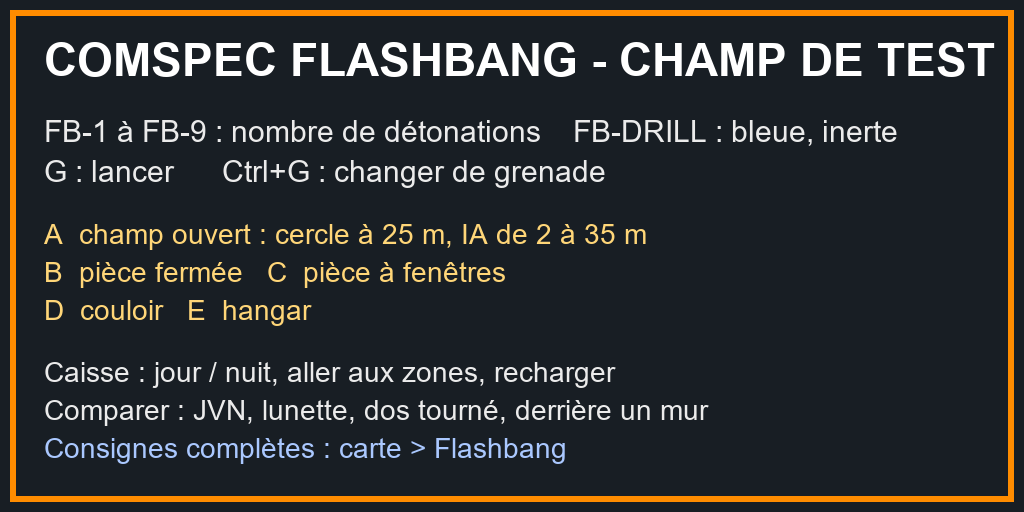
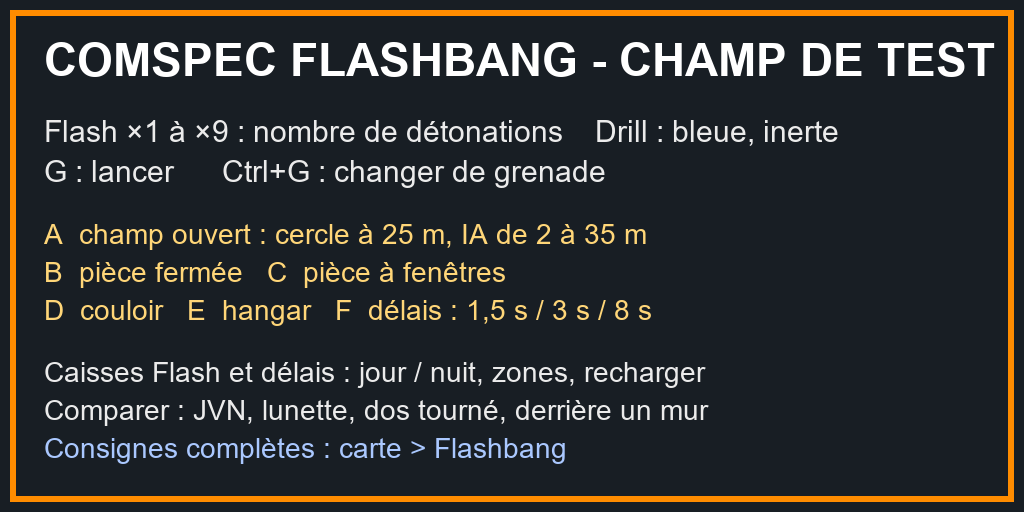
Flashbang : couloir « délais » dans la mission de test, README (calibration, volumes, portée, état des tests)
- Mission COMSPEC_FB_Range : zone F (caisses standard et délais, cercle de lancer, pièce fermée à 15 m avec
  2 IA), grenades 3 s / 8 s dans le sac et à la recharge, consignes et panneau mis à jour.
- README : table de calibration de l'éblouissement et mesures en jeu, désorientation, niveaux des sons,
  réglages de volume et de portée du son, ce qui a été vérifié en jeu et ce qui ne l'a pas été.

Claude-Session: https://claude.ai/code/session_01UBGvpgFq5UBpaJY8LGtwcs

Changed region(s): [[0.0625, 0.2188, 0.875, 0.2812], [0.125, 0.6875, 0.6875, 0.75], [0.3125, 0.5938, 0.6562, 0.625]]

diff --git a/mod/COMSPEC_Flashbang/tools/gen_range_sign.py b/mod/COMSPEC_Flashbang/tools/gen_range_sign.py
@@ -13,14 +13,14 @@ FONTS = r"C:\Windows\Fonts"
 LINES = [
     ("COMSPEC FLASHBANG - CHAMP DE TEST", 46, (255, 255, 255)),
     ("", 14, None),
-    ("FB-1 à FB-9 : nombre de détonations    FB-DRILL : bleue, inerte", 30, (235, 235, 235)),
+    ("Flash ×1 à ×9 : nombre de détonations    Drill : bleue, inerte", 30, (235, 235, 235)),
     ("G : lancer      Ctrl+G : changer de grenade", 30, (235, 235, 235)),
     ("", 14, None),
     ("A  champ ouvert : cercle à 25 m, IA de 2 à 35 m", 28, (255, 214, 120)),
     ("B  pièce fermée   C  pièce à fenêtres", 28, (255, 214, 120)),
-    ("D  couloir   E  hangar", 28, (255, 214, 120)),
+    ("D  couloir   E  hangar   F  délais : 1,5 s / 3 s / 8 s", 28, (255, 214, 120)),
     ("", 14, None),
-    ("Caisse : jour / nuit, aller aux zones, recharger", 28, (235, 235, 235)),
+    ("Caisses Flash et délais : jour / nuit, zones, recharger", 28, (235, 235, 235)),
     ("Comparer : JVN, lunette, dos tourné, derrière un mur", 28, (235, 235, 235)),
     ("Consignes complètes : carte > Flashbang", 28, (170, 200, 255)),
 ]

diff --git a/mod/COMSPEC_Flashbang/README.md b/mod/COMSPEC_Flashbang/README.md
@@ -74,20 +74,23 @@ Les 40 classes sont générées par des macros (`FB_AMMO_DELAYS`, `FB_MAG_DELAYS
 
 Ces effets ne touchent que lui. La lumière et le bang, eux, sont vus et entendus par tout le monde.
 
-- **Éblouissement** : voile blanc instantané. L'image est pleinement blanche environ 1,2 s, puis elle revient
-  d'abord vite, ensuite lentement. Le contraste et les couleurs sont réduits pendant ce temps.
-- **Image rémanente** : une tache reste à l'endroit de l'écran où était le flash. Elle est claire pendant 0,8 s, puis
+- **Éblouissement** : voile blanc instantané. À 3 m, l'écran est entièrement blanc environ 1,5 s, le blanc s'efface
+  en 1,5 s environ, la vision reste très dégradée jusqu'à 6-8 s (voile, contraste et couleurs réduits), puis revient
+  vers 12 s. Chaque flash suivant redonne un blanc plein écran bref.
+- **Image rémanente** : une grande tache reste à l'endroit de l'écran où était le flash. Elle est claire pendant 0,8 s, puis
   sombre, avec une teinte qui dérive. Elle bouge avec le regard (elle est sur la rétine) et s'efface en 25 s au plus.
   Si le flash était hors du champ de vision, il n'y a pas de tache.
-- **Perte d'acuité** : flou léger qui se dissipe en 10 s environ. Il n'y a ni distorsion ni effet « psychédélique ».
+- **Perte d'acuité** : flou fort au début (DynamicBlur ~45 à 3 m de face, ~35 à 3 s, ~17 à 6 s), qui se dissipe en
+  12 s environ. Il n'y a ni distorsion ni effet « psychédélique ».
 - **JVN allumées** : tube saturé, voile beaucoup plus fort et grain marqué.
 - **Optique ou jumelles pointées sur le flash** : halo dans l'optique et effet multiplié par 1,5.
 - **Ouïe** : on entend le bang. Ensuite les sons du jeu, la voix et la radio baissent (jusqu'à 25 % du volume, jamais
   le silence total), puis reviennent lentement (35 s à pleine exposition).
 - **Acouphène** : sifflement aigu continu. Il part fort et retombe vite les premières secondes, puis traîne
   (jusqu'à 45 s, réglable).
-- **Motricité** : la visée devient instable pendant environ 8 s, avec une secousse brève de la caméra due à l'onde de
-  pression. Le joueur n'est ni immobilisé ni mis à terre, et ne subit aucun dégât par défaut.
+- **Désorientation** : secousse brève de la caméra (onde de pression), puis oscillation lente qui décroît (vertige),
+  visée très instable (dispersion jusqu'à x5) et pas plus lents (jusqu'à 80 % de la vitesse) pendant environ 10 s.
+  Le joueur n'est ni immobilisé ni mis à terre, et ne subit aucun dégât par défaut.
 - **Plusieurs flashs** : chaque flash relance et prolonge les effets. Le total est plafonné : 15 s d'éblouissement
   cumulé par défaut, 60 s d'ouïe étouffée, environ 45 s d'acouphène.
 
@@ -139,9 +142,12 @@ Ce que ça change :
   peu.
 - **Extérieur** :
   - le bang est sec et l'effet chute plus vite avec la distance ;
-  - au-delà de 150 m, on entend un bang lointain avec écho ;
+  - le bang est très fort sous 25 m, net jusqu'à 100 m, puis lointain avec écho ; on ne l'entend plus au-delà de la
+    « Portée du son » (250 m ; moitié à travers un mur ou depuis un local fermé) ;
   - le son arrive avec le retard dû à la distance (343 m/s) ;
-  - de jour l'éblouissement est moindre (0,65), de nuit il est plus fort (multiplicateur nuit).
+  - la nuit l'éblouissement est plus fort (multiplicateur nuit).
+- La portée du son ne change pas les effets : éblouissement et désorientation restent limités au rayon maximal
+  (25 m).
 
 ## Réglages
 
@@ -152,15 +158,16 @@ Les réglages « client » sont propres à chaque poste ; tous les autres sont i
 |---|---|---|---|
 | Préréglage | Réaliste | Réaliste (valeurs des sources), Arcade (+25 % de force, +60 % de durée), Léger (-30 %, -40 %) | Arcade pour une soirée détente |
 | Intensité globale | 1 | Multiplie tous les effets | 0.5 = moitié moins fort |
-| Rayon plein effet (m) | 6 | Plein éblouissement jusqu'à cette distance | 4 pour un effet plus localisé |
+| Rayon plein effet (m) | 3 | Plein éblouissement jusqu'à cette distance (table de calibration) | 5 pour un effet plus fort |
+| Portée du son (m) | 250 | Distance d'audibilité du bang en terrain dégagé (moitié à travers un mur) ; n'agit pas sur les effets | 250 = un quart de kilomètre ; moins pour un petit terrain |
 | Rayon maximal (m) | 25 | Au-delà, plus d'éblouissement ; le bang assourdit jusqu'à ~60 m | 15 |
 | Cécité cumulée max (s) | 15 | Plafond d'éblouissement quand les flashs s'enchaînent | 10 |
 | Détecter intérieur / extérieur | oui | Analyse du local, sinon 1 rayon vers le haut | non sur un serveur très chargé |
 | Multiplicateur intérieur | 1.4 | Force et portée en petite pièce | 1.6 |
 | Blessure à bout portant | non | Petite blessure à moins de 1 m (jamais avec ACE Médical) | oui |
 | Éblouissement | oui | Voile, image rémanente, halo | non pour ne garder que le son |
-| Perte d'acuité (flou) | oui | Flou léger qui se dissipe | non |
-| Multiplicateur nuit | 1.3 | Force la nuit / dans le noir (jour : 0,65) | 1.5 |
+| Perte d'acuité (flou) | oui | Flou fort qui se dissipe | non |
+| Multiplicateur nuit | 1.3 | Force la nuit / dans le noir (jour : 1) | 1.5 |
 | Multiplicateur JVN | 2 | Force avec JVN allumées | 3 |
 | Acouphène | oui | Sifflement qui décroît | non |
 | Durée max de l'acouphène (s) | 45 | Durée audible maximale | 20 |
@@ -177,7 +184,8 @@ Les réglages « client » sont propres à chaque poste ; tous les autres sont i
 | Son de la grenade d'entraînement | Pop | Son de chaque pop de la DRILL : Pop, Pop sourd, Bang léger, Bang réel, Rafale courte, Sifflet d'exercice, Cloche d'exercice, Aucun son | « Pop » pour un exercice discret, « Bang réel » pour s'entraîner au bruit d'une vraie détonation |
 | Volume du son d'entraînement | 100 % | Volume du son de la DRILL pour tous (20 à 150 %) | 60 % la nuit près des habitations |
 | Qualité des effets visuels (client) | Moyenne | Nombre de particules | Basse sur un petit PC |
-| Volume du bang (client) | 1 | Volume des détonations sur ce poste | 0.6 au casque |
+| Volume des flashbangs (client) | 200 % | Volume des bangs et sons de la DRILL sur ce poste (50-300 %) ; très fort : baissez le casque avant de tester | 100 % = niveau d'origine |
+| Volume de l'acouphène (client) | 150 % | Volume du sifflement (50-300 %) | 100 % si trop fort au casque |
 | Acouphène : son (client) | Enregistrement | Son enregistré par TTRD ou synthèse | Synthèse |
 | Journal de diagnostic (RPT) (client) | non | Écrit chaque étape d'une grenade dans le RPT de ce poste (lignes `[COMSPEC FB]`), rien à l'écran, aucun coût quand décoché | active-le, lance une grenade, puis envoie ton RPT |
 
@@ -196,7 +204,7 @@ Suffixe `_synth` : synthétisé pour le mod.
 | Bang d'un flash | `bang_unique_a_enreg.ogg`, `_b_`, `_c_` | enregistrement | 2,4 / 2,4 / 1,2 s | rejoué N fois (1 par flash) |
 | Couche grave | `bang_grave_enreg.ogg` | enregistrement filtré | 1,0 s | avec le 1er flash seulement |
 | Bang derrière un mur | `bang_interieur_etouffe_enreg.ogg` | enregistrement + réverbération synthétique | 2,8 s | auditeur séparé par un mur |
-| Bang lointain | `bang_lointain_enreg.ogg` | enregistrement + échos synthétiques | 3,8 s | dehors, au-delà de 150 m |
+| Bang lointain | `bang_lointain_enreg.ogg` | enregistrement + échos synthétiques | 3,8 s | dehors, au-delà de 100 m |
 | Acouphène | `acouphene_decroissance_enreg.ogg` | enregistrement + enveloppe calculée | 60 s | joué 1 fois par joueur, prolongé par chaque flash |
 | Acouphène (variante) | `acouphene_decroissance_synth.ogg` | synthèse | 60 s | réglage « Acouphène : son » |
 | Cuillère | `levier_cuillere_synth.ogg` | synthèse | 0,4 s | au lancer |
@@ -220,6 +228,10 @@ comme les bangs. « Aucun son » : fumée seule.
 Les fichiers d'écoute sont copiés dans `H:\StreamLabs\ogg\` (tableau dans `LISEZ-MOI.txt`).
 
 Détails des bangs :
+- Niveaux des fichiers : bangs à crête -1 dBFS après un limiteur doux (environ -14 à -16 LUFS, +4,5 LU par rapport à
+  la première version), acouphène à crête -6 dBFS (+17 LU). Volume de lecture : volume de la table x « Volume des
+  flashbangs » (200 %) ; `playSound3D` plafonne à 5 par lecture, au-delà le bang est joué en 2 ou 3 lectures
+  superposées. Limiteur : -1 dB par bang au-delà du 4e (9 bangs ne saturent pas, le premier garde son impact).
 - Chaque bang est une lecture indépendante (`playSound3D` local). Les bangs se superposent sans se couper.
 - Hauteur ±5 %, volume ±1,5 dB, tirage parmi les 3 bangs sans répéter deux fois de suite le même.
 - Tous les fichiers sont en OGG Vorbis 44,1 kHz, sans écrêtage (crête ≤ -1 dBTP).
@@ -237,16 +249,29 @@ signalés.
 | Acouphène | aigu continu qui décroît, ≤ 45 s | acouphène et assourdissement temporaires, de quelques secondes à quelques minutes (description M84) | durée bornée pour le jeu |
 | Ouïe étouffée | jusqu'à 25 % du volume, retour en ~35 s | décalage temporaire du seuil d'audition après un bruit impulsionnel | pas de vraie courbe audiométrique |
 | Lumière | flash bref et très intense | 4 à 8 millions de candelas (M84 6-8 Mcd ; Primetake 8 Mcd ; Rheinmetall 4 Mcd) | lumière de jeu, pic ~2 images puis décroissance en 0,3 s |
-| Éblouissement | plein blanc ~1,2 s, récupération ~6 s, image rémanente jusqu'à 25 s | récupération de 5 s à 2 min selon l'intensité et la tâche ([HFES 2023, Flash Blindness Recovery for Pilots in the Modern Cockpit](https://katalog.lib.cas.cz/KNAV/EdsRecord/edo,ejs64963113)) | durées fixes x exposition^0,6 |
-| Adaptation | jour 0,65, nuit 1,3 | la récupération dépend de la taille de la pupille et de l'adaptation (rapports DTIC, ex. [AD0627332](https://apps.dtic.mil/sti/pdfs/AD0627332.pdf)) | `sunOrMoon` et toit au-dessus de la tête au lieu d'une vraie luminance |
-| Regarder ailleurs | 100 % à < 25°, 35 % à 90°, 10 % de dos | l'éblouissement dépend de l'éclairement de la rétine | courbe linéaire par morceaux |
+| Éblouissement | plein blanc ~1,5 s à 3 m, vision très dégradée 6-8 s, récupération ~12 s, image rémanente jusqu'à 25 s | récupération de 5 s à 2 min selon l'intensité et la tâche ([HFES 2023, Flash Blindness Recovery for Pilots in the Modern Cockpit](https://katalog.lib.cas.cz/KNAV/EdsRecord/edo,ejs64963113)) | durées fixes x exposition^0,6 |
+| Adaptation | jour 1, nuit 1,3 | la récupération dépend de la taille de la pupille et de l'adaptation (rapports DTIC, ex. [AD0627332](https://apps.dtic.mil/sti/pdfs/AD0627332.pdf)) | `sunOrMoon` et toit au-dessus de la tête au lieu d'une vraie luminance |
+| Distance et regard | table ci-dessous | à quelques mètres, plusieurs millions de candelas saturent toute la rétine, y compris en vision périphérique, et la pupille n'a pas le temps de se fermer ; de dos, la scène entière s'illumine | interpolation linéaire par morceaux |
 | Mèche | 1,5 s | M84 : 1 à 2,3 s ; Rheinmetall : 1,0 s ; NonLethal Technologies MP-FB-2 : 1,5 s | réglable 0,5-4 s ; variantes fixes 3 s et 8 s (choix de jeu, pour les entrées synchronisées) |
 | Multi-coups | 0,5 s ± 0,12 s, 1 à 9 coups | MP-FB-2 : 2e coup 0,5 s après le 1er ; Combined Systems 7290 : familles 2 à 9 coups | irrégularité aléatoire uniforme |
 | Empilement | chaque coup relance et prolonge, plafond 15 s | « chaque détonation relance la désorientation » | +50 % de la durée restante par coup |
 | Corps | Ø40 mm, 114 mm, 0,56 kg, évents en bas, bande marron | Rheinmetall 6 Bang Ø40 x 112 mm, 563 g ; Primetake Ø40 x 115 mm, 600 g | évents en texture et relief |
 | DRILL | pop sans flash, corps bleu | Rheinmetall : version d'entraînement 150 dB, corps bleu | pas de flash par défaut |
-| Motricité | visée instable ~8 s, secousse brève | désorientation, perte d'équilibre possible (Primetake), pas d'incapacité | pas de chute ni de ragdoll |
+| Désorientation | visée très instable, pas plus lents (0,8), oscillation de la caméra ~10 s, secousse brève | désorientation, perte d'équilibre possible (Primetake), pas d'incapacité | pas de chute ni de ragdoll |
 | Dégâts | aucun par défaut | non létale par conception ; brûlures possibles au contact | réglage « Blessure à bout portant » |
+
+**Table de calibration de l'éblouissement** (vision 0 à 1, extérieur, de jour, réglages par défaut ; distance
+œil-grenade, 3,5 m = grenade au sol à 3 m ; intérieur : x multiplicateur intérieur ; nuit et JVN : plus fort) :
+
+| Distance | 0-3,5 m | 5 m | 10 m | 15 m | 25 m |
+|---|---|---|---|---|---|
+| Regard ≤ 65° du flash | 1,00 | 0,85 | 0,50 | 0,30 | 0,04 |
+| De côté (90°) | 0,92 | 0,50 | 0,25 | 0,10 | 0 |
+| De dos (180°) | 0,35 | 0,20 | 0,08 | 0,03 | 0 |
+
+Mesure en jeu (autotest, joueur debout, grenade au sol, midi) : 2 m 1,00 / 0,98 (60°) / 0,90 (90°) ; 3 m 0,97 /
+0,96 / 0,82-0,84 ; 5 m 0,84 / 0,83 / 0,48 ; 10 m 0,50 / 0,50 / 0,25 ; 15 m 0,30 / 0,30 / 0,10 ; 25 m 0,04 / 0 / 0.
+De dos, l'angle réel dépend de l'inclinaison de la tête (125 à 160°) : 0,47 à 0,70 à 2-3 m.
 
 **Retiré parce que non réaliste** :
 - flou radial ;
@@ -317,8 +342,12 @@ signalés.
 
 ## Limites connues
 
-- **Rien n'a été testé en jeu à la livraison** : rendus visuels, niveaux sonores, comportement de l'IA et
-  synchronisation multijoueur sont relus mais pas encore vus en partie.
+- **Vérifié en jeu par l'autotest** (solo, CBA + ACE, avant l'arrêt des tests demandé par TTRD) : lancer avancé ACE
+  x1, x3, x9 (1re détonation à 1,50 s), Flash x1 · 8 s ACE (7,97 s, aucune détonation à l'impact), DRILL · 3 s ACE,
+  lancer vanilla x1 (1,51 s) et x9 (9/9 détonations), effets appliqués au joueur et à une IA, test console, calibration
+  extérieure mesurée. **Pas vu en jeu** : lancers vanilla x3 / 3 s / 8 s / DRILL avec le banc final, chemin de secours
+  ProjectileCreated, intérieur mesuré, rendu visuel du blanc, du flou et de la tache, désorientation recalibrée,
+  niveaux sonores (rien n'a été écouté), multijoueur.
 - **Lumière à travers les murs** : les lumières d'Arma traversent les murs. Le flash est donc limité à la taille de la
   pièce, mais une lueur peut se voir de l'autre côté d'un mur fin.
 - **Engin au sol** : un ThingX de 0,56 kg peut trembler légèrement sur certaines surfaces.
@@ -446,7 +475,13 @@ skills are restored exactly.
 hangar (under 0.1 ms per grenade).
 - Closed rooms: louder bang, stronger and wider dazzle, and reflected light even with your back turned.
 - A solid wall stops the flash; the bang still goes through, muffled.
-- Outdoors: the effect falls off faster, there is a distant echo beyond 150 m, and sound is delayed at 343 m/s.
+- Outdoors: very loud under 25 m, clear up to 100 m, distant echo beyond, inaudible beyond the « Sound range » (250 m,
+  half through a wall); sound is delayed at 343 m/s. The sound range does not change the effects (25 m max).
+
+**Calibration**: dazzle 1.0 within 3.5 m eye distance when looking within 65°, 0.92 at 90°, 0.35 from behind; 5 m
+0.85/0.5; 10 m 0.5/0.25; 15 m 0.3/0.1; 25 m negligible. Full white screen ~1.5 s at 3 m, heavy blur (DynamicBlur ~45),
+recovery ~12 s, unsteady aim, slower steps (0.8) and slow camera sway for ~10 s. Bang files peak at -1 dBFS (soft
+limiter), tinnitus at -6 dBFS; « Flashbang volume » 200 % and « Tinnitus volume » 150 % by default.
 
 **Exact bang count**:
 1. The thrower's machine runs the fuse on its own grenade.
